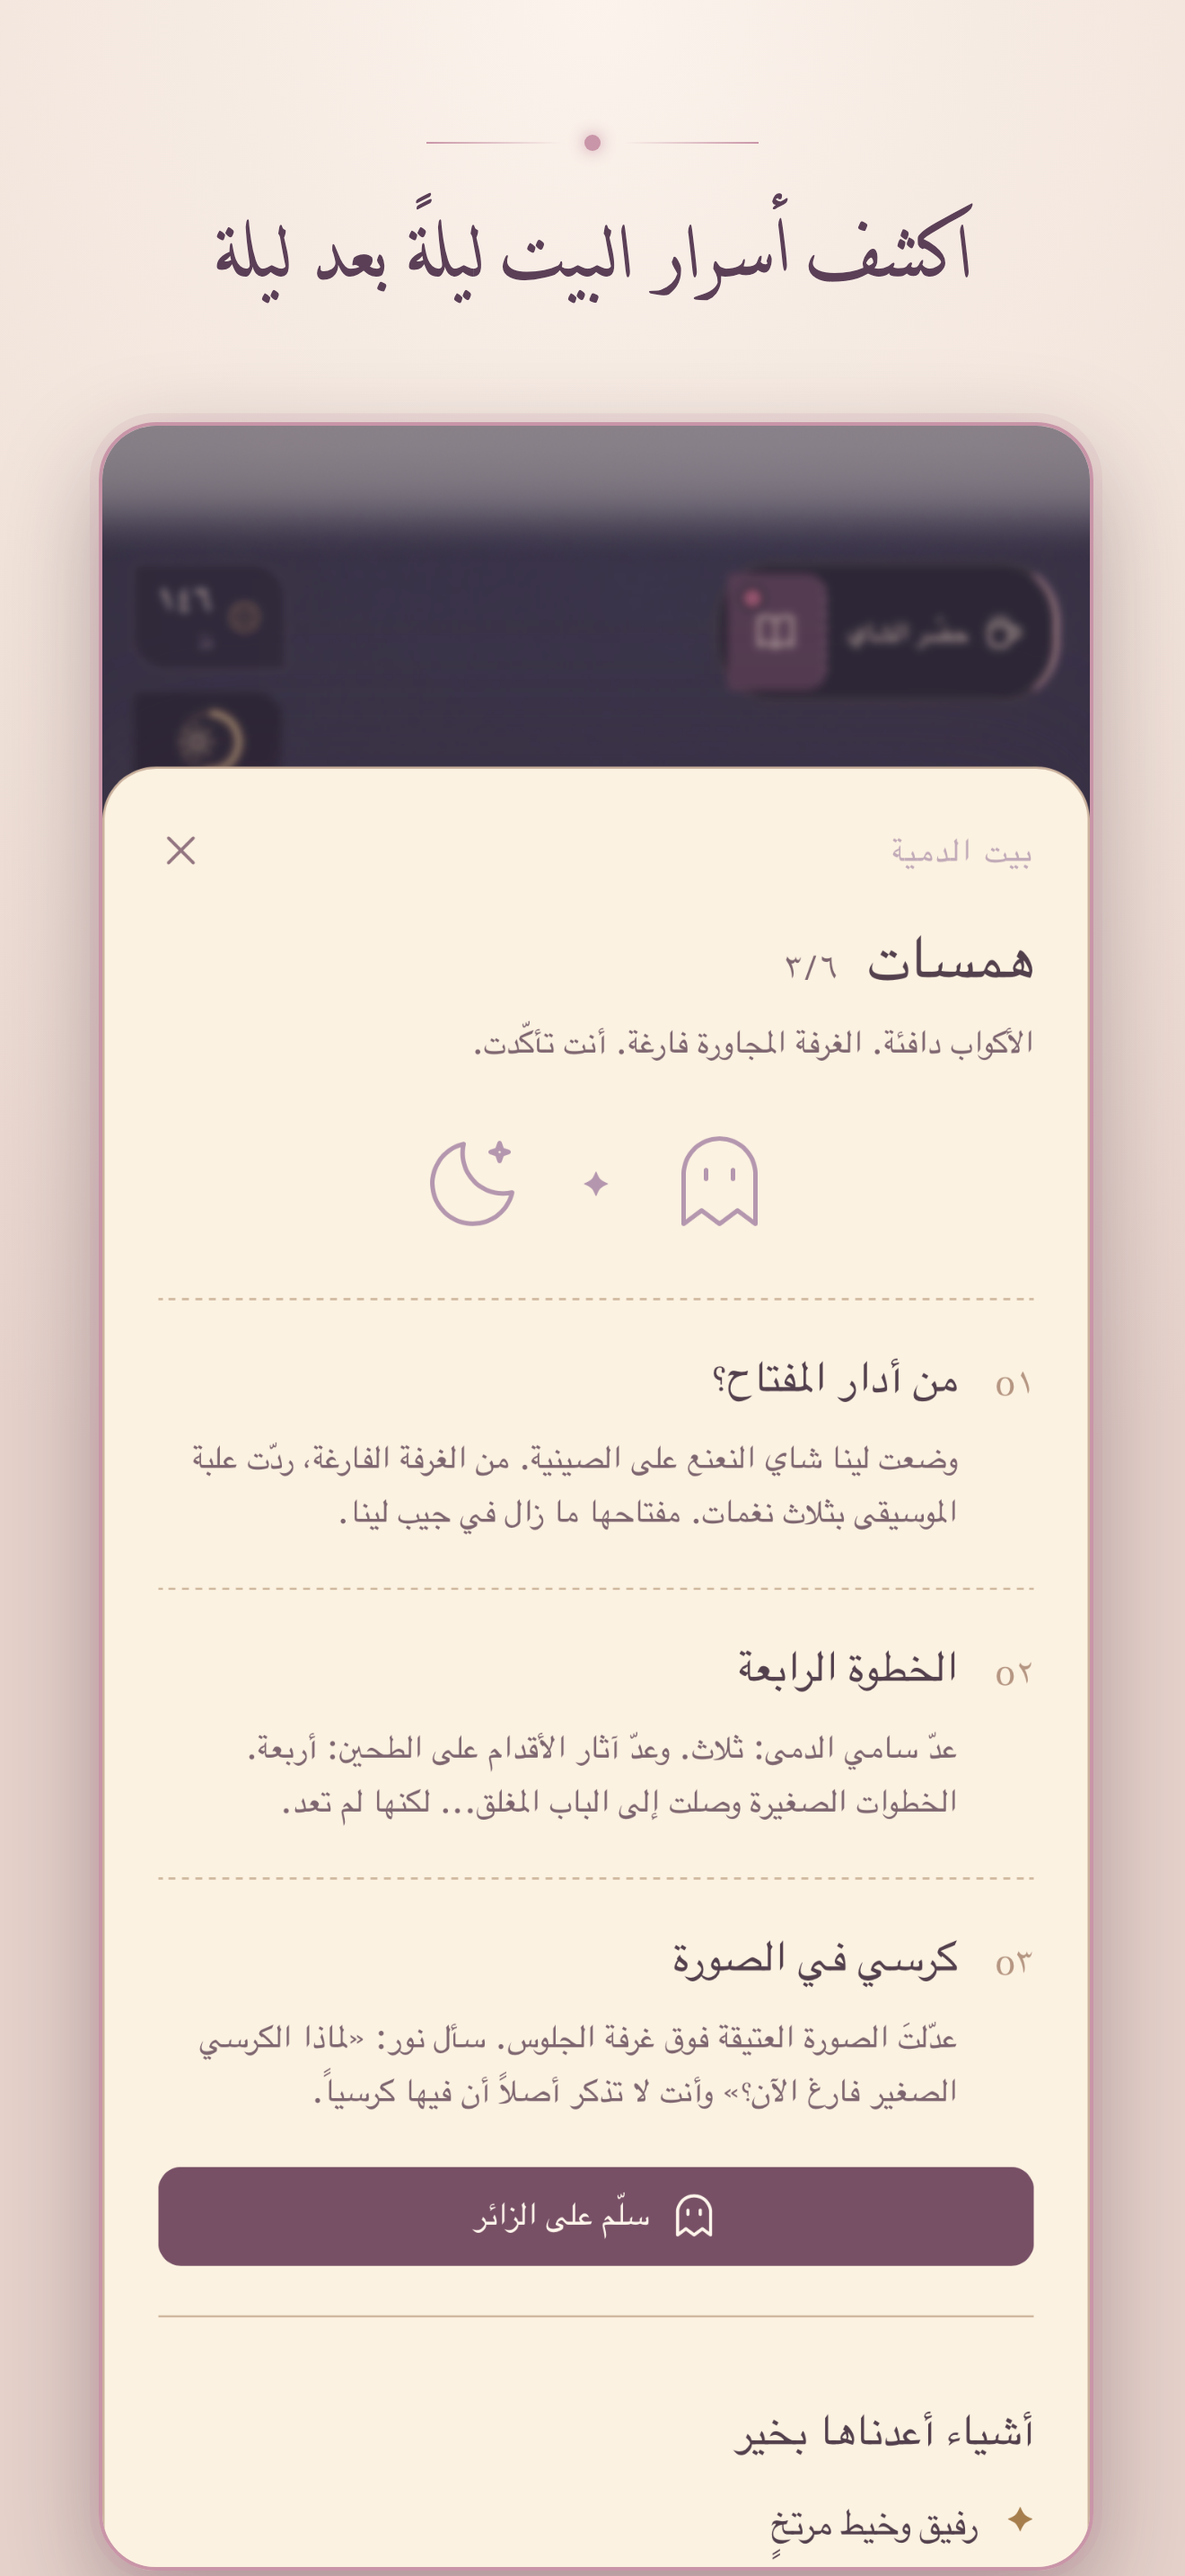
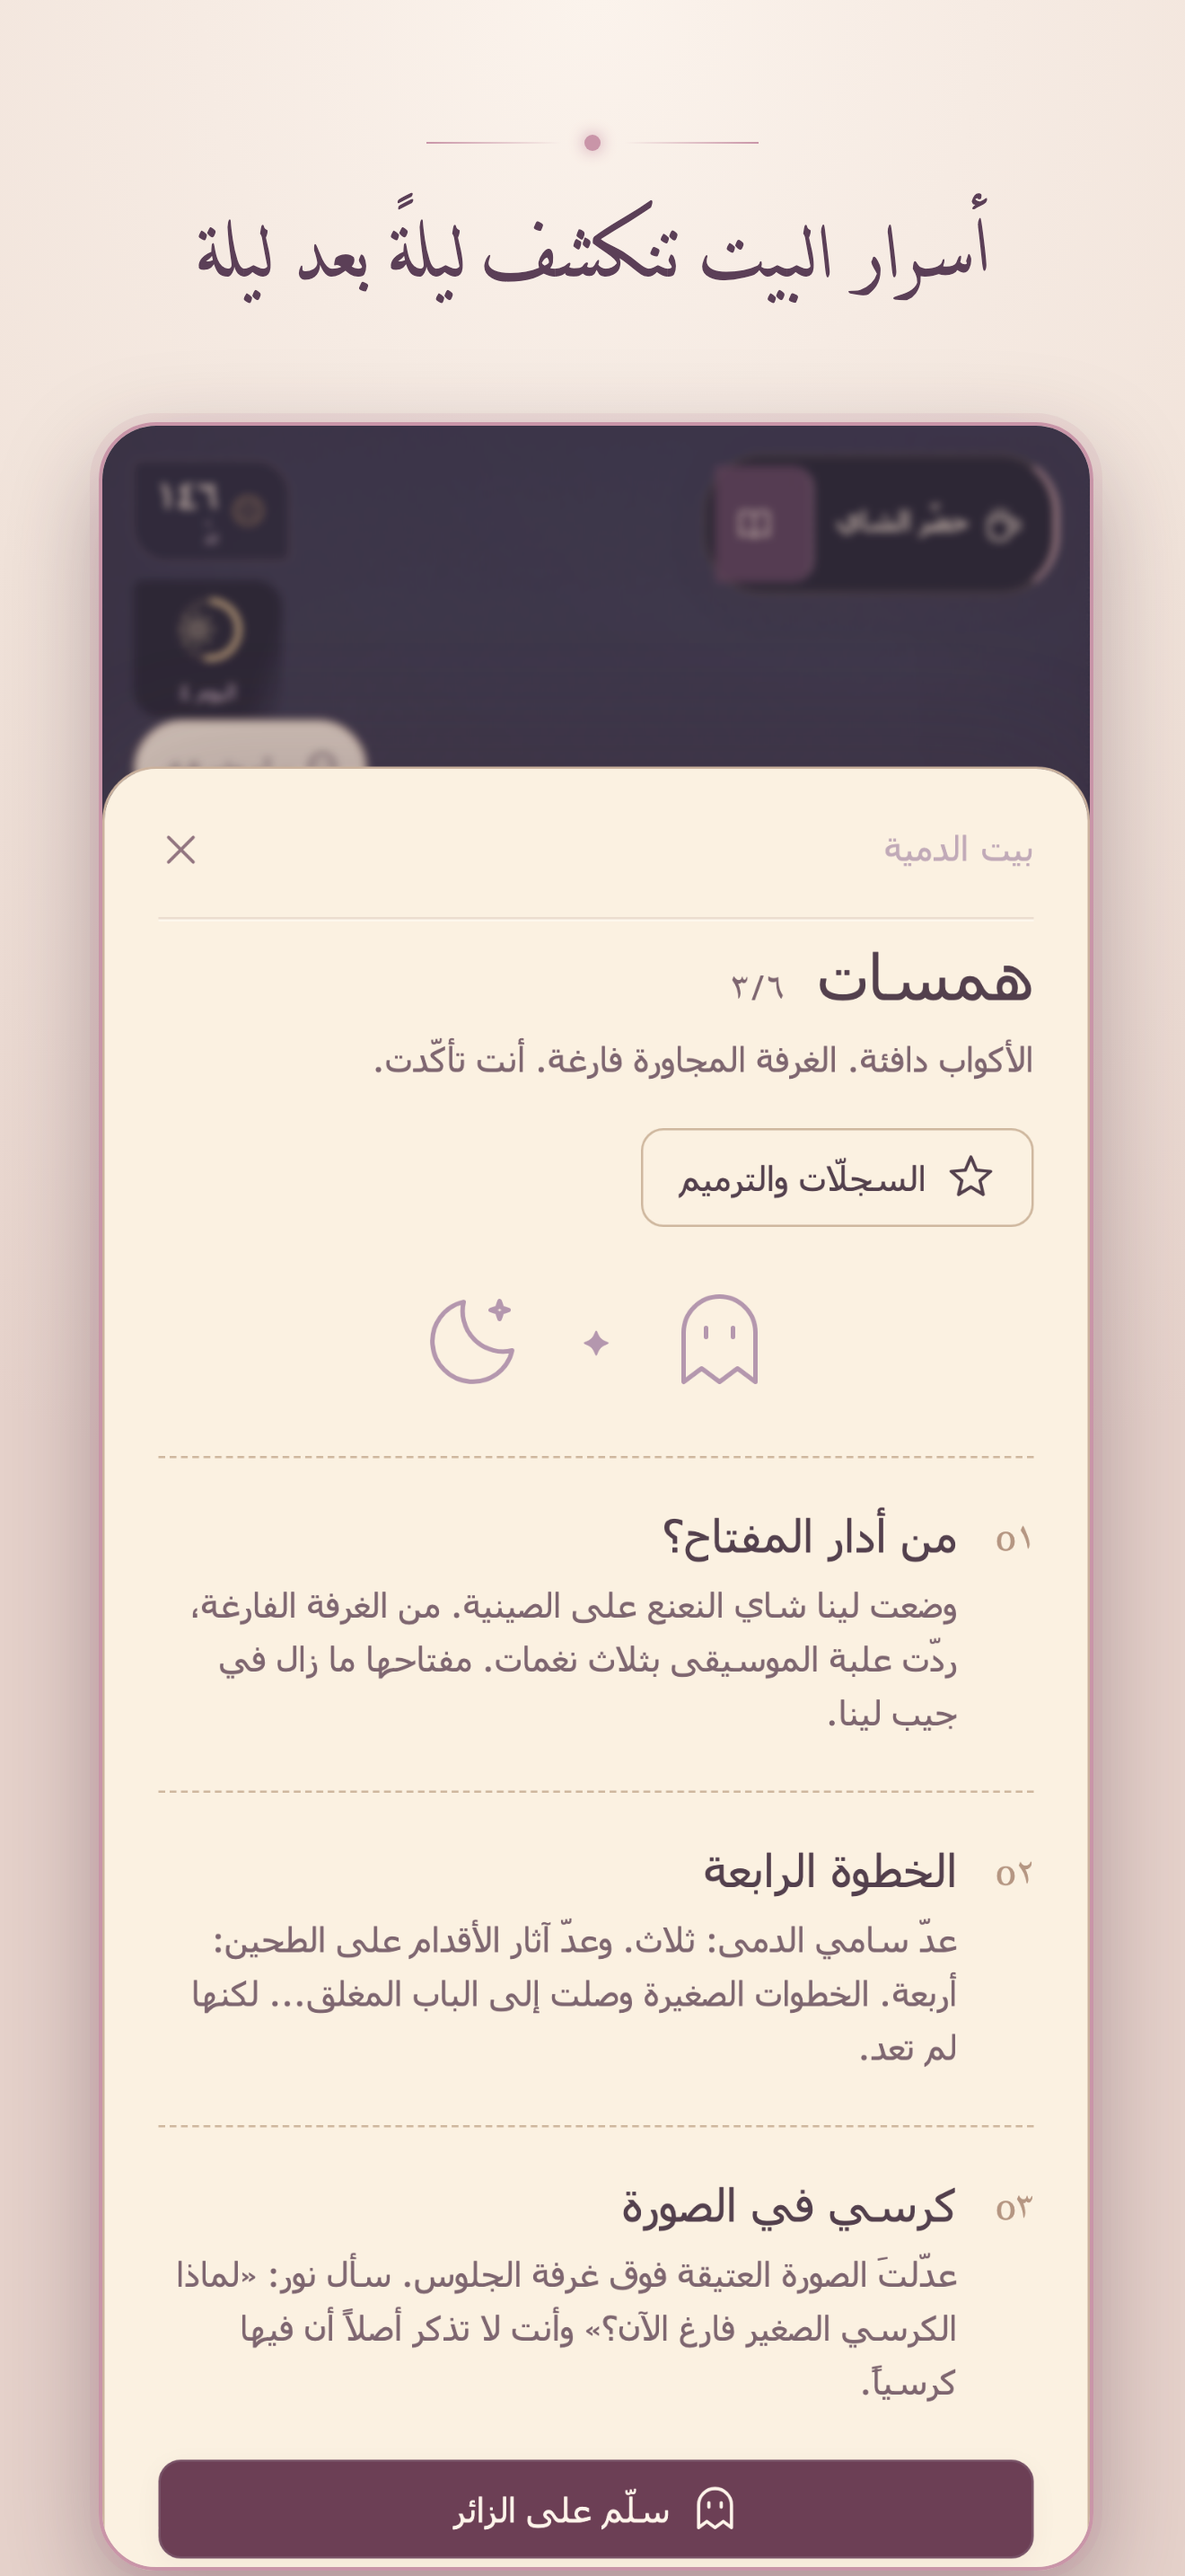
store(1.2): screenshots show the key ring; Arabic store copy and captions without gendered address
The 1.1 shots showed the bottom bar that 1.2 removes. Captions, promotional
text and description now use neutral verbal nouns instead of masculine
imperatives («عنايةٌ بالدمى»، «شايٌ يُصبّ باليد»).

Claude-Session: https://claude.ai/code/session_013f6uZrUaRj1UDzq4RNXnPp

diff --git a/ios/store/compose_screenshots.py b/ios/store/compose_screenshots.py
@@ -1,7 +1,7 @@
 import sys,base64
 from playwright.sync_api import sync_playwright
 RAW='/tmp/bait-shots'; OUT=sys.argv[1]
-C={'ar':[('01-night','بيتٌ صغير، وثلاث أرواح صغيرة'),('02-house','اعتنِ بالدمى في بيتها'),('03-kitchen','لكلّ دميةٍ غرفةٌ وحكاية'),('04-tea','حضّر الشاي بيدك'),('06-whispers','اكشف أسرار البيت ليلةً بعد ليلة')],
+C={'ar':[('01-night','بيتٌ صغير، وثلاث أرواح صغيرة'),('02-house','عنايةٌ بالدمى في بيتها'),('03-kitchen','لكلّ دميةٍ غرفةٌ وحكاية'),('04-tea','شايٌ يُصبّ باليد'),('06-whispers','أسرار البيت تنكشف ليلةً بعد ليلة')],
    'en':[('01-night','A tiny home. Three little souls.'),('02-house','Care for the dolls in their home'),('03-kitchen','Every doll has a room and a story'),('04-tea','Brew the tea by hand'),('06-whispers','Uncover the house\'s secrets, night by night')]}
 NAMES=['01-night','02-house','03-dolls','04-tea','05-whispers']
 with sync_playwright() as p:
